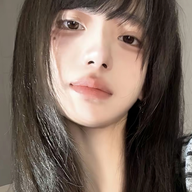
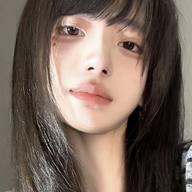
Add files via upload

diff --git a/sw.js b/sw.js
@@ -1,5 +1,5 @@
 // 离线缓存。改了 index.html 之后把 V 加一，手机才会更新。
-const V = 'v2';
+const V = 'v3';
 const CACHE = `workbench-${V}`;
 const SHELL = ['./', './index.html', './icon-192.png', './icon-512.png'];
 
